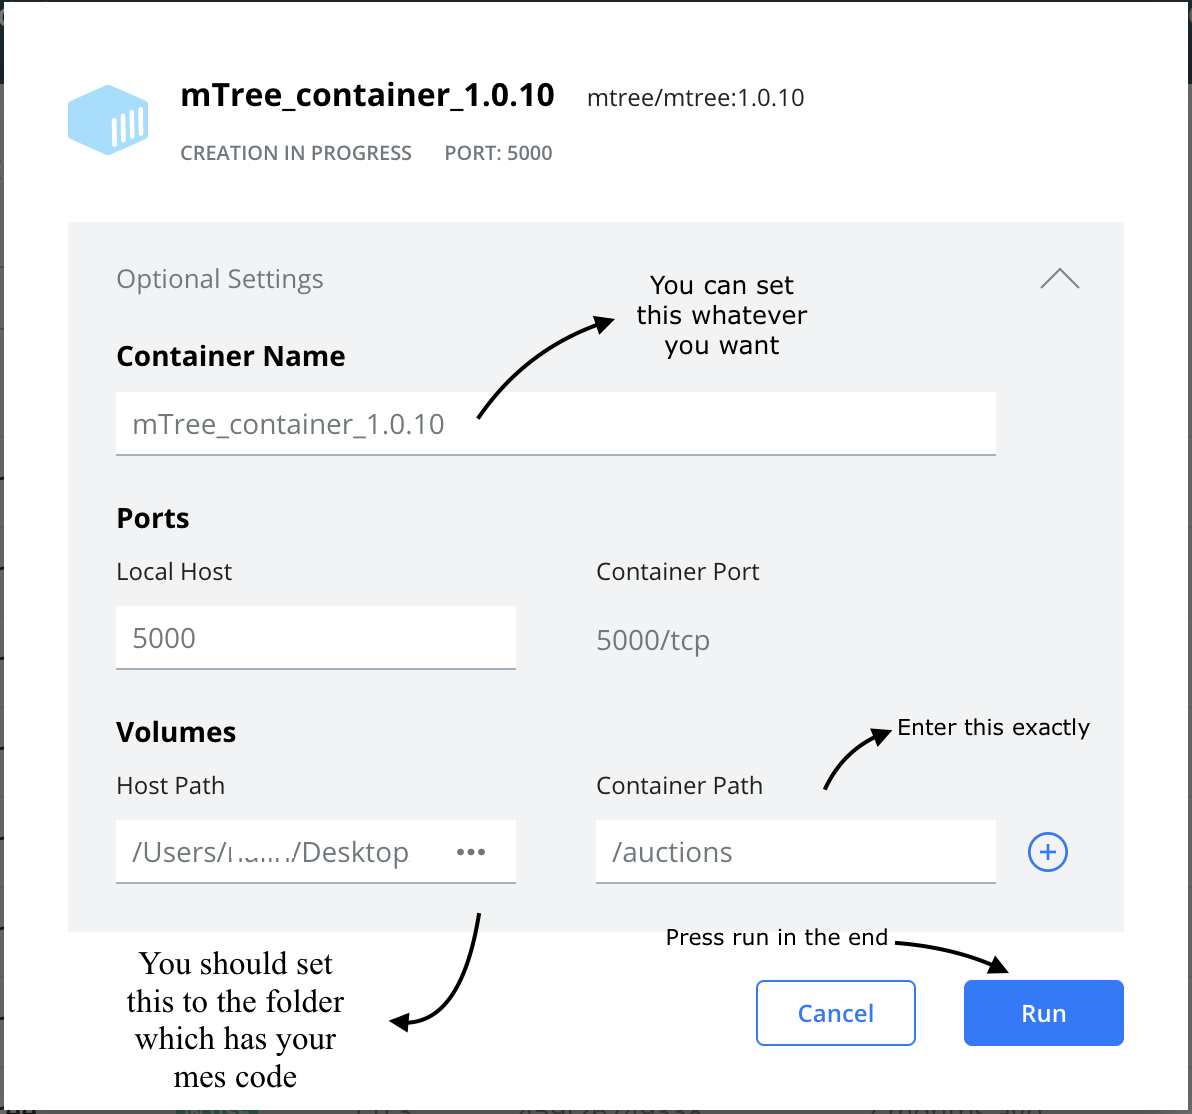
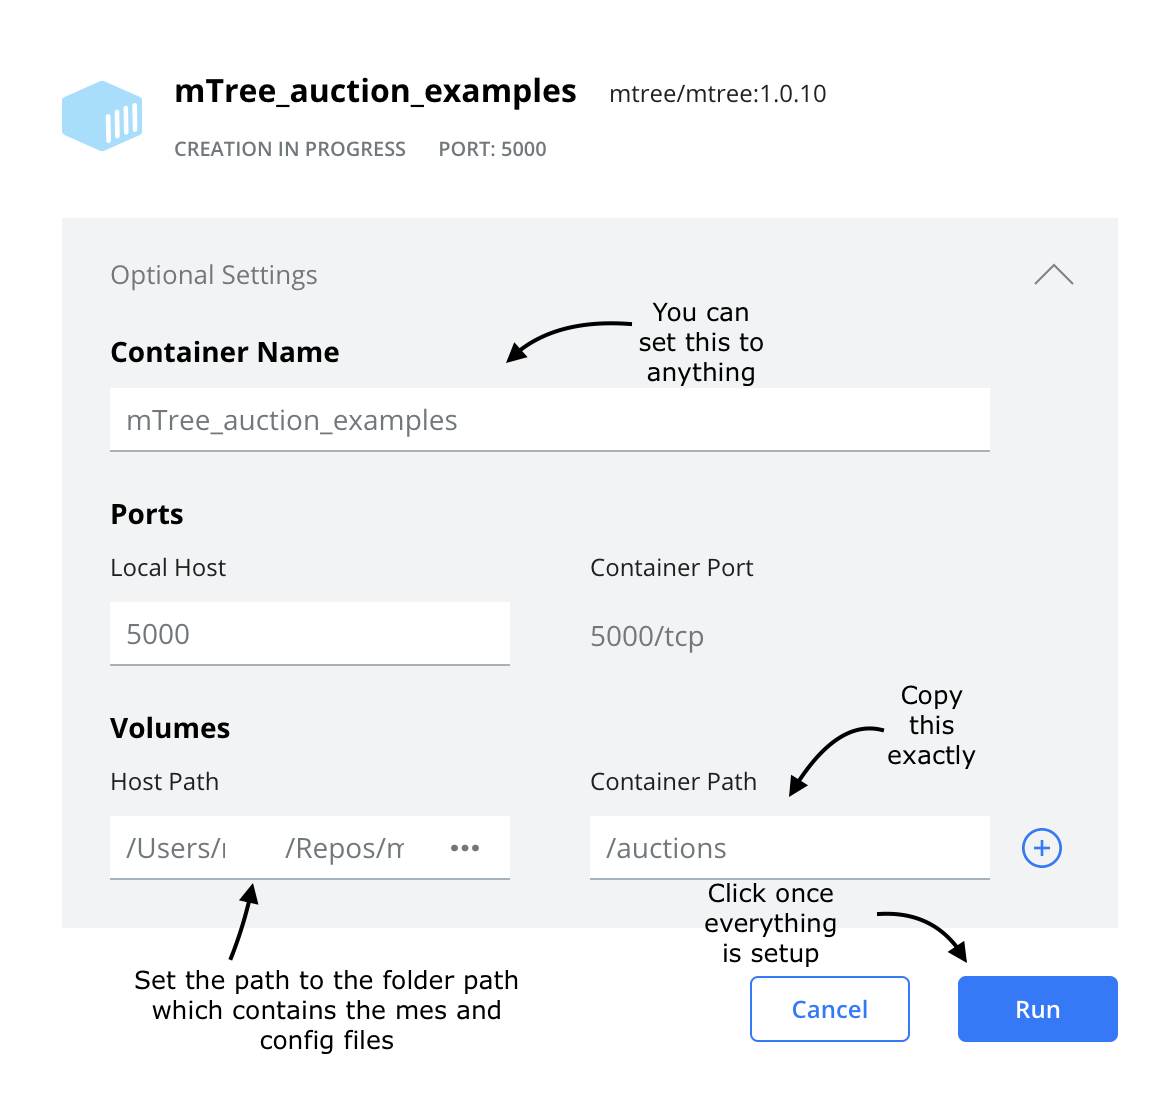
Finished the first section of quick_start: Cloning mTree_examples

diff --git a/docs/source/installation.rst b/docs/source/installation.rst
@@ -6,6 +6,8 @@ Installation
 
 In order to run **mTree** we need to install `Docker Desktop <https://www.docker.com>`_  first.  
 
+.. _install-docker-desk:
+
 Installing Docker Desktop
 -------------------------
 
@@ -15,6 +17,7 @@ The links for **Docker Desktop** installation for different os can be found belo
 
 After completing the **Docker Desktop** installation, we can start installing **mTree**
 
+.. _install-mTree:
 
 Installing mTree
 ----------------
@@ -32,28 +35,25 @@ the latest version of **mTree** `here <https://hub.docker.com/r/mtree/mtree/tags
     The command prompt should be based in the same virtual environment where you
     have **Docker Desktop** installed. 
 
-
- 
-
 After pasting and running the command in your command prompt, your screen should look
 some version of this - 
-
-.. figure:: _static/docker_hub_mTree.png
-        :align: center
-
-After hitting enter, your commant prompt should look as follows 
 
 .. figure:: _static/terminal.png
         :align: center
 
-After running that command, you should open **Docker Desktop** app on your computer and click
+.. _mTree-container-setup:
+
+mTree Container Setup
+----------------------
+
+Open **Docker Desktop** app on your computer and click
 images on the sidebar. 
 
 .. figure:: _static/mTree_image.png
         :align: center
 
-This is the **mTree** image we just downloaded through docker hub. We are going to run this 
-image within a small virtualization of the os called a 'container'. We can set our docker 
+This is the **mTree** image we just downloaded through docker hub in the previous step. We are going to run this 
+image within a small virtualization of the os called a 'container'. We can create our docker 
 container by clicking "Run" on the mTree image. 
 
 After that you should see the following window.
@@ -77,6 +77,9 @@ A running docker container should have a green symbol on the left side.
 .. figure:: _static/started_container.png
         :align: center
 
+
+Container Options
+^^^^^^^^^^^^^^^^^
 Your container comes with several options that can be executed to change its 
 state. 
 

diff --git a/docs/source/quick_start.rst b/docs/source/quick_start.rst
@@ -2,15 +2,46 @@
 Quick Start Guide
 =================
 
+In this **Quick Start Guide**, we are going to run a simple **mTree** simulation 
+while giving an overview of key components that are necessary for **mTree** to execute 
+without error. The goal of this guide is to show you how to run an mTree simulation from 
+start to finish and point out the vital indicators that convey a simulation has run properly. 
 
-Cloning mTree_learning_exercises
+Cloning mTree_auction_examples
 ================================
 
-We are going to clone the **mTree_learning_exercises** repository, which can
-be found `here <https://github.com/gmucsn/mTree_learning_exercises>`_, and run one 
-of the examples to make sure **mTree** is running properly. 
 
-Open your command prompt and navigate to an apporpriate place within your 
-file system where you want to clone the 
+We are going to clone the **mTree_auction_examples** repository, which can
+be found `here <https://github.com/gmucsn/mTree_learning_exercises>`_, and run one 
+of the examples to  **mTree** is running properly. 
+
+
+Open your command prompt and navigate to an apporpriate place using  within your 
+file system where you want to clone the repository and run the following code - 
+
+.. code-block:: console
+
+    $ git clone https://github.com/gmucsn/mTree_auction_examples.git
+
+This will create a **mTree_auction_examples** folder at your specified 
+location.
+
+
+Running mTree_auction_examples 
+==============================
+
+In order to run this simulation we need to create a **docker container** using 
+the **Docker Desktop** app that we downloaded in  :doc:`installation` section. 
+
+Follow all the steps highlighted in the :ref:`mTree-container-setup` section 
+and set the **Host Path** to the folder where you downloaded 
+
+
+
+
+
+
+
+
 
 
